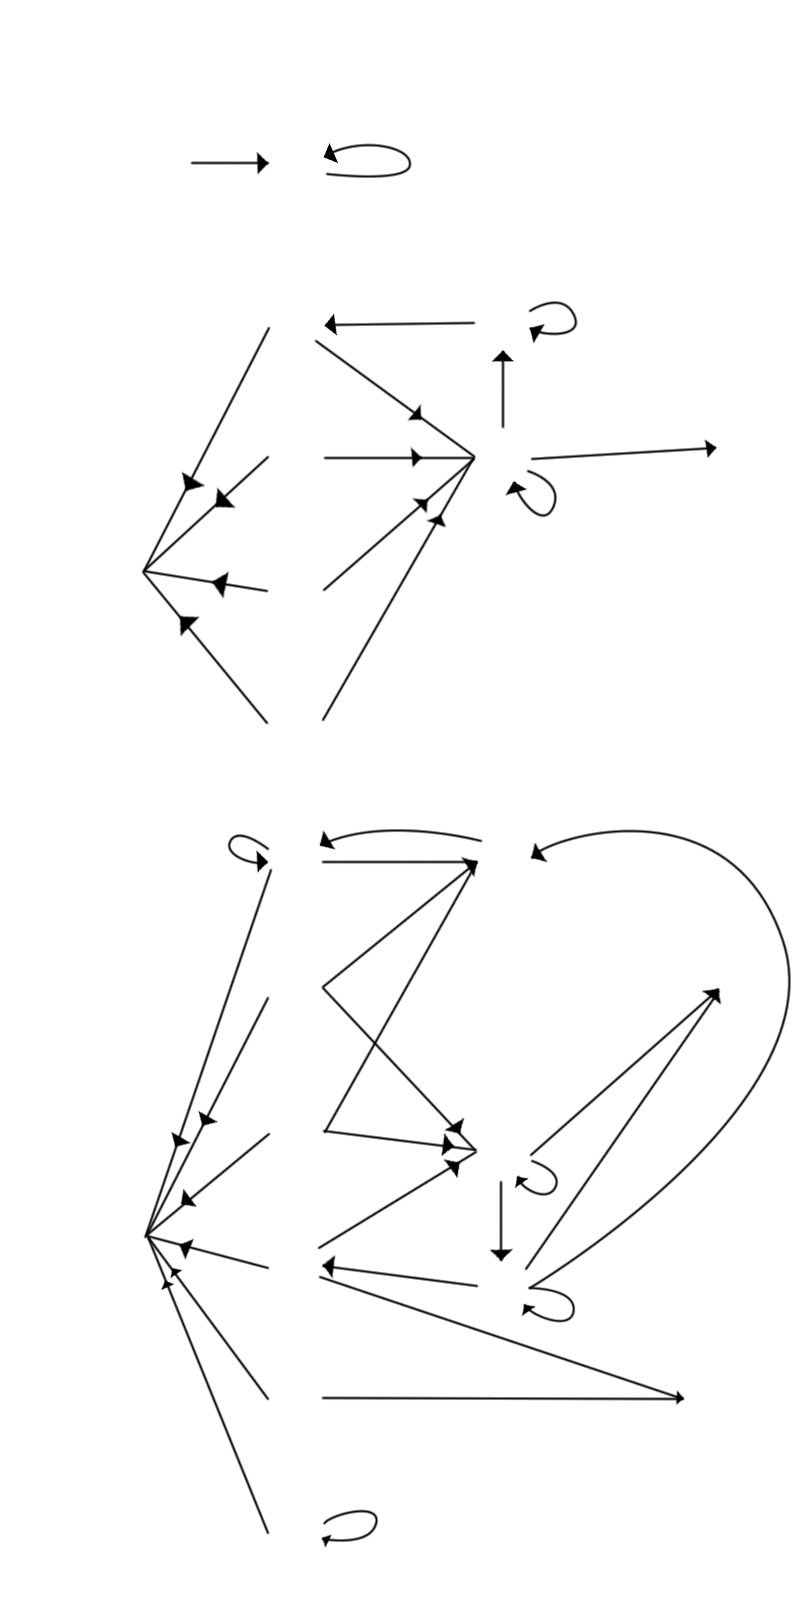
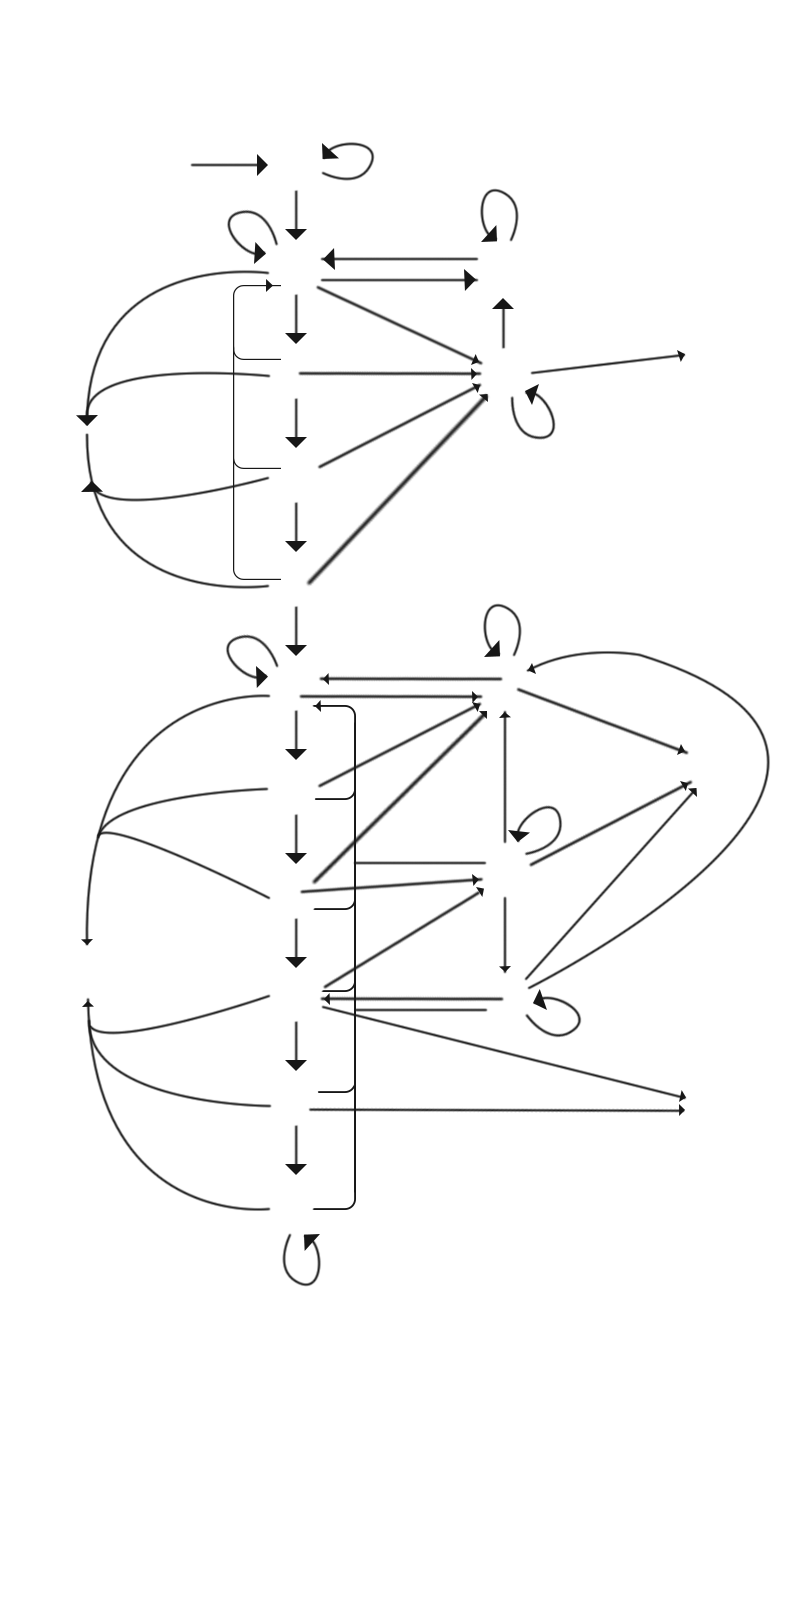
update DFA BY GILKI

diff --git a/src/App.vue b/src/App.vue
@@ -229,11 +229,7 @@
           <b-col>
             <!-- ส่วนนป้าย -->
             <br /><br /><br /><br />
-            <v-card
-              :loading="loading"
-              max-width="800"
-              img="https://firebasestorage.googleapis.com/v0/b/imgatm.appspot.com/o/bgDFA.png?alt=media&token=b0e26ea9-59b7-4263-ace8-187fd228ed21"
-            >
+            <v-card :loading="loading" max-width="800" img="https://firebasestorage.googleapis.com/v0/b/imgatm.appspot.com/o/bgDFA.png?alt=media&token=dcd3d77b-7ecb-40ba-90bd-3794814ad6ad">
               <v-img height="1600">
                 <v-row>
                   <v-col>
@@ -259,15 +255,12 @@
                       <v-col> </v-col>
 
                       <v-col>
-                        รอรับบัตร <br />
+                        <br />
                         <v-btn fab>
                           <v-btn fab v-show="this.state == 1" color="#F44336">
                           </v-btn
                         ></v-btn>
                         <br />
-                        <img src="./assets/Arrow.png" width="30" height="30" />
-                        <br />
-                        In Crad
                       </v-col>
                       <v-col> </v-col>
                       <v-col> </v-col>
@@ -276,20 +269,19 @@
                     <v-row>
                       <v-col> </v-col>
                       <v-col>
-                        ป้อนรหัสตัวที่1 <br />
+                        <br />
                         <v-btn fab>
                           <v-btn fab v-show="this.state == 2" color="#F44336">
                           </v-btn
                         ></v-btn>
                         <br />
-                        <img src="./assets/Arrow.png" width="30" height="30" />
                       </v-col>
                       <v-col>
-                        ยืนตัวตนไม่ถูกต้อง <br />
+                        <br />
                         <v-btn fab>
                           <v-btn
                             fab
-                            v-show="this.state == 15"
+                            v-show="this.state == 31"
                             color="#F44336"
                           ></v-btn
                         ></v-btn>
@@ -300,40 +292,42 @@
                     <v-row>
                       <v-col> </v-col>
                       <v-col>
-                        ป้อนรหัสตัวที่2 <br />
+                        <br />
                         <v-btn fab
                           ><v-btn fab v-show="this.state == 3" color="#F44336">
                           </v-btn
                         ></v-btn>
                         <br />
-                        <img src="./assets/Arrow.png" width="30" height="30" />
                       </v-col>
                       <v-col>
-                        รหัสผ่านไม่ถูกต้อง<br />
+                        <br />
                         <v-btn fab
-                          ><v-btn fab v-show="this.state == 13" color="#F44336">
+                          ><v-btn fab v-show="this.state == 30" color="#F44336">
                           </v-btn
                         ></v-btn>
                       </v-col>
                       <v-col>
-                        คืนบัตร
                         <v-btn fab></v-btn>
                       </v-col>
                     </v-row>
 
                     <v-row>
                       <v-col>
-                        คืนบัตร
-                        <v-btn fab></v-btn>
+                        <v-btn fab
+                          ><v-btn
+                            fab
+                            v-show="this.state == 33"
+                            color="#43A047"
+                          ></v-btn
+                        ></v-btn>
                       </v-col>
                       <v-col>
-                        ป้อนรหัสตัวที่3 <br />
+                        <br />
                         <v-btn fab
                           ><v-btn fab v-show="this.state == 4" color="#F44336">
                           </v-btn
                         ></v-btn>
                         <br />
-                        <img src="./assets/Arrow.png" width="30" height="30" />
                       </v-col>
                       <v-col> </v-col>
                       <v-col> </v-col>
@@ -342,7 +336,7 @@
                     <v-row>
                       <v-col> </v-col>
                       <v-col>
-                        รหัสถูกต้อง <br />
+                        <br />
                         <v-btn fab
                           ><v-btn
                             fab
@@ -351,7 +345,6 @@
                           ></v-btn
                         ></v-btn>
                         <br />
-                        <img src="./assets/Arrow.png" width="30" height="30" />
                       </v-col>
                       <v-col> </v-col>
                       <v-col> </v-col>
@@ -360,7 +353,7 @@
                     <v-row>
                       <v-col> </v-col>
                       <v-col>
-                        ป้อนจำนวณเงินตัวที่1 <br />
+                        <br />
                         <v-btn fab
                           ><v-btn
                             fab
@@ -369,10 +362,9 @@
                           ></v-btn
                         ></v-btn>
                         <br />
-                        <img src="./assets/Arrow.png" width="30" height="30" />
                       </v-col>
                       <v-col>
-                        ถอนเงินไม่สำเร็จ <br />
+                        <br />
                         <v-btn fab
                           ><v-btn
                             fab
@@ -387,7 +379,7 @@
                     <v-row>
                       <v-col> </v-col>
                       <v-col>
-                        ป้อนจำนวณเงินตัวที่2 <br />
+                        <br />
                         <v-btn fab
                           ><v-btn
                             fab
@@ -396,11 +388,9 @@
                           ></v-btn
                         ></v-btn>
                         <br />
-                        <img src="./assets/Arrow.png" width="30" height="30" />
                       </v-col>
                       <v-col> </v-col>
                       <v-col>
-                        คืนบัตร
                         <v-btn fab></v-btn>
                       </v-col>
                     </v-row>
@@ -408,7 +398,7 @@
                     <v-row>
                       <v-col> </v-col>
                       <v-col>
-                        ป้อนจำนวณเงินตัวที่3 <br />
+                        <br />
                         <v-btn fab
                           ><v-btn
                             fab
@@ -417,10 +407,8 @@
                           ></v-btn
                         ></v-btn>
                         <br />
-                        <img src="./assets/Arrow.png" width="30" height="30" />
                       </v-col>
                       <v-col>
-                        จำนวณเงินตัวที่2ไม่ถูกต้อง <br />
                         <v-btn fab>
                           <v-btn
                             fab
@@ -434,11 +422,10 @@
 
                     <v-row>
                       <v-col>
-                        คืนบัตร
                         <v-btn fab></v-btn>
                       </v-col>
                       <v-col>
-                        ป้อนจำนวณเงินตัวที่4 <br />
+                        <br />
                         <v-btn fab>
                           <v-btn
                             fab
@@ -447,17 +434,14 @@
                           ></v-btn
                         ></v-btn>
                         <br />
-                        <img src="./assets/Arrow.png" width="30" height="30" />
                       </v-col>
                       <v-col>
-                        จำนวณเงินตัวที่3ไม่ถูกต้อง <br />
+                        <br>
                         <v-btn fab
-                          ><v-btn
-                            fab
-                            v-show="this.state == 17"
-                            color="#F44336"
+                          ><v-btn fab v-show="this.state == 17" color="#F44336"
+                            ></v-btn
                           ></v-btn
-                        ></v-btn>
+                        >
                       </v-col>
                       <v-col> </v-col>
                     </v-row>
@@ -465,18 +449,22 @@
                     <v-row>
                       <v-col> </v-col>
                       <v-col>
-                        ป้อนจำนวณเงินตัวที่5
-                        <v-btn fab></v-btn>
                         <br />
-                        <img src="./assets/Arrow.png" width="30" height="30" />
+                        <v-btn fab
+                          ><v-btn
+                            fab
+                            v-show="this.state == 32"
+                            color="#F44336"
+                          ></v-btn
+                        ></v-btn>
                       </v-col>
                       <v-col> </v-col>
                       <v-col>
-                        เงินออกคืนบัตร <br />
+                        <br />
                         <v-btn fab>
                           <v-btn
                             fab
-                            v-show="this.state == 10"
+                            v-show="this.state == 14"
                             color="#43A047"
                           ></v-btn
                         ></v-btn>
@@ -486,7 +474,7 @@
                     <v-row>
                       <v-col> </v-col>
                       <v-col>
-                        จำนวณเงินเกินกำหนด
+                        <br>
                         <v-btn fab></v-btn>
                       </v-col>
                       <v-col> </v-col>
